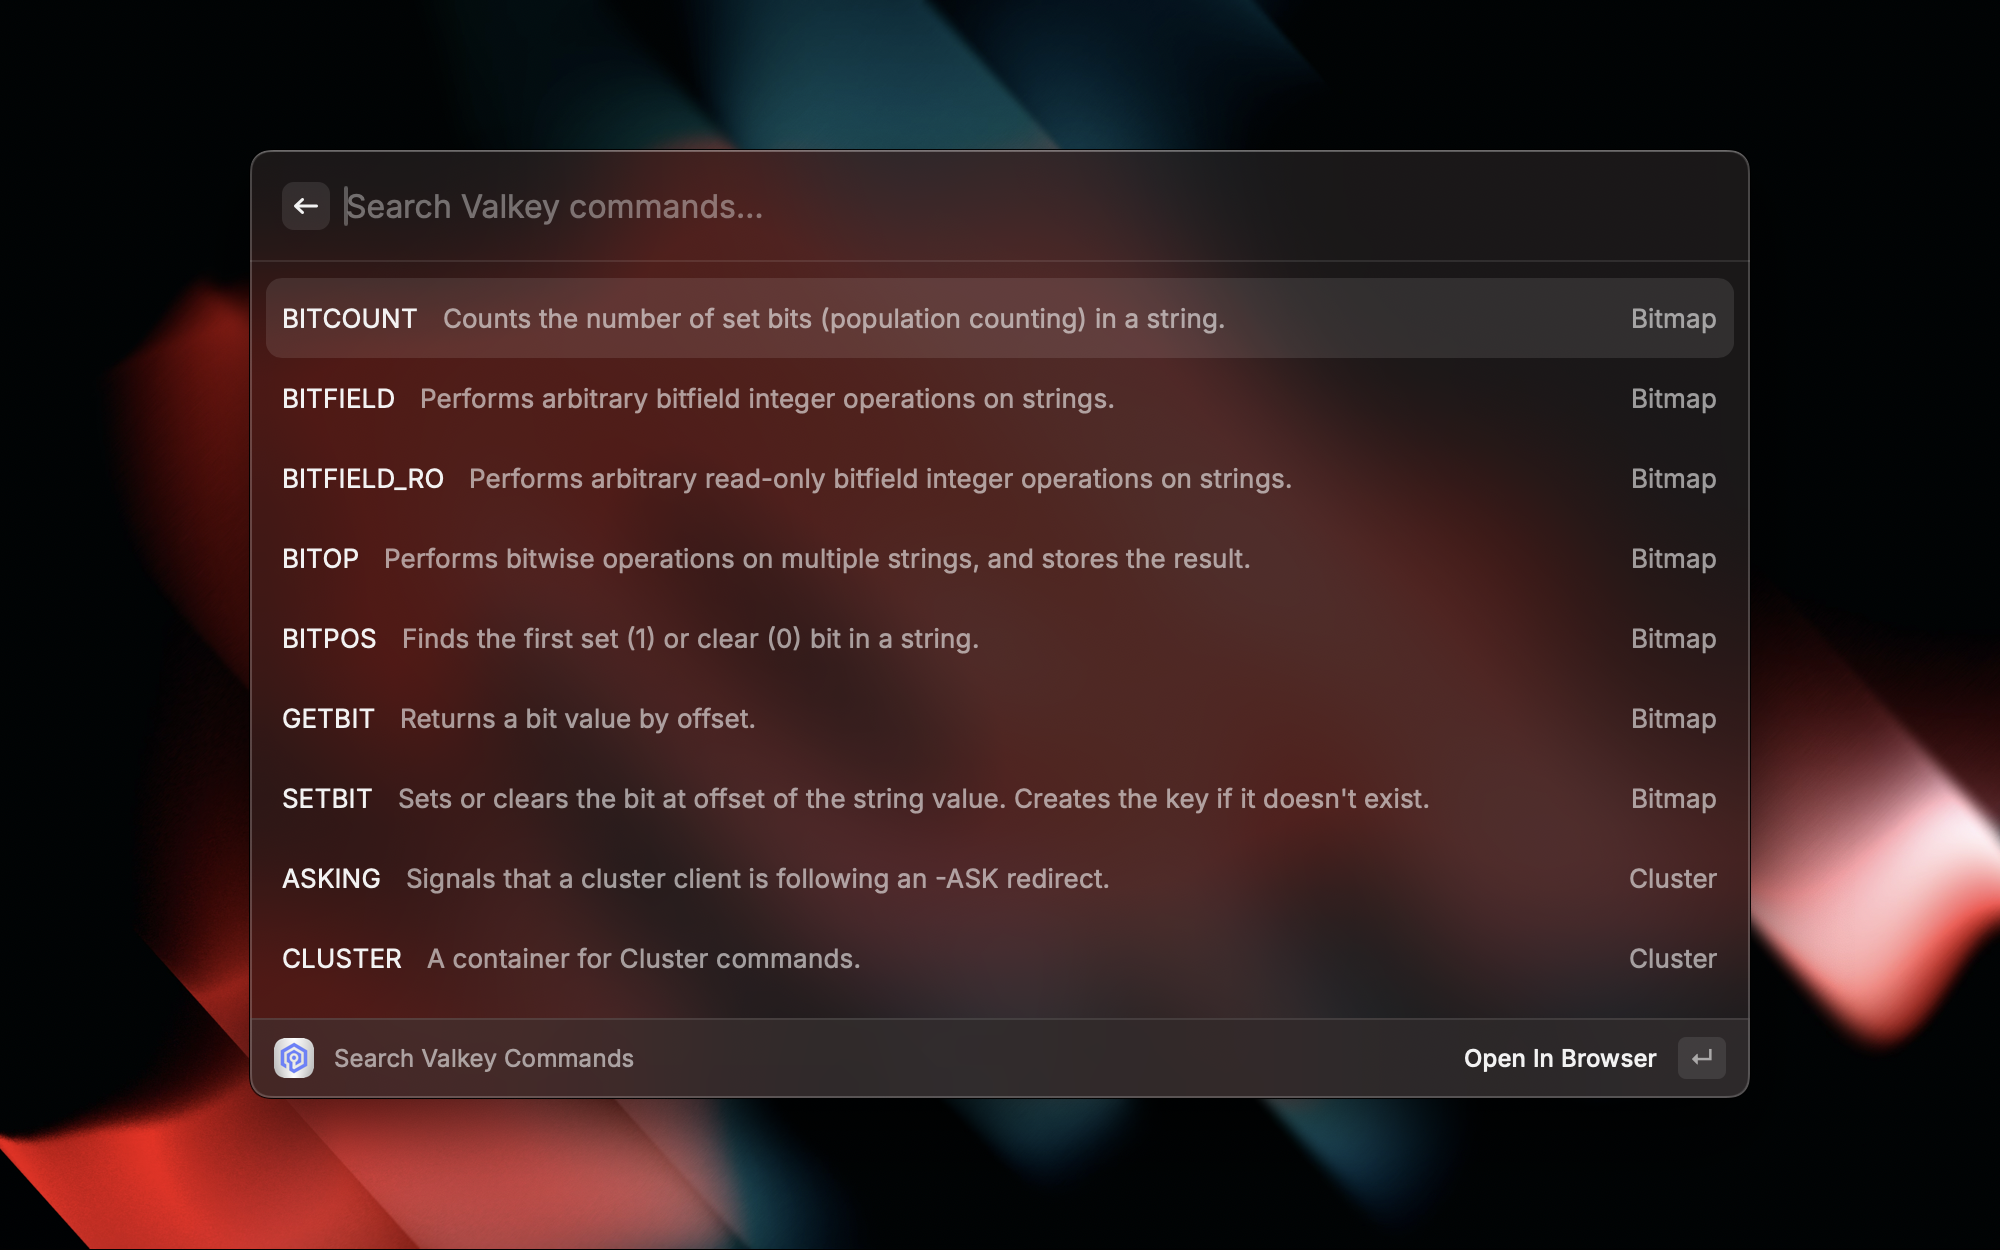
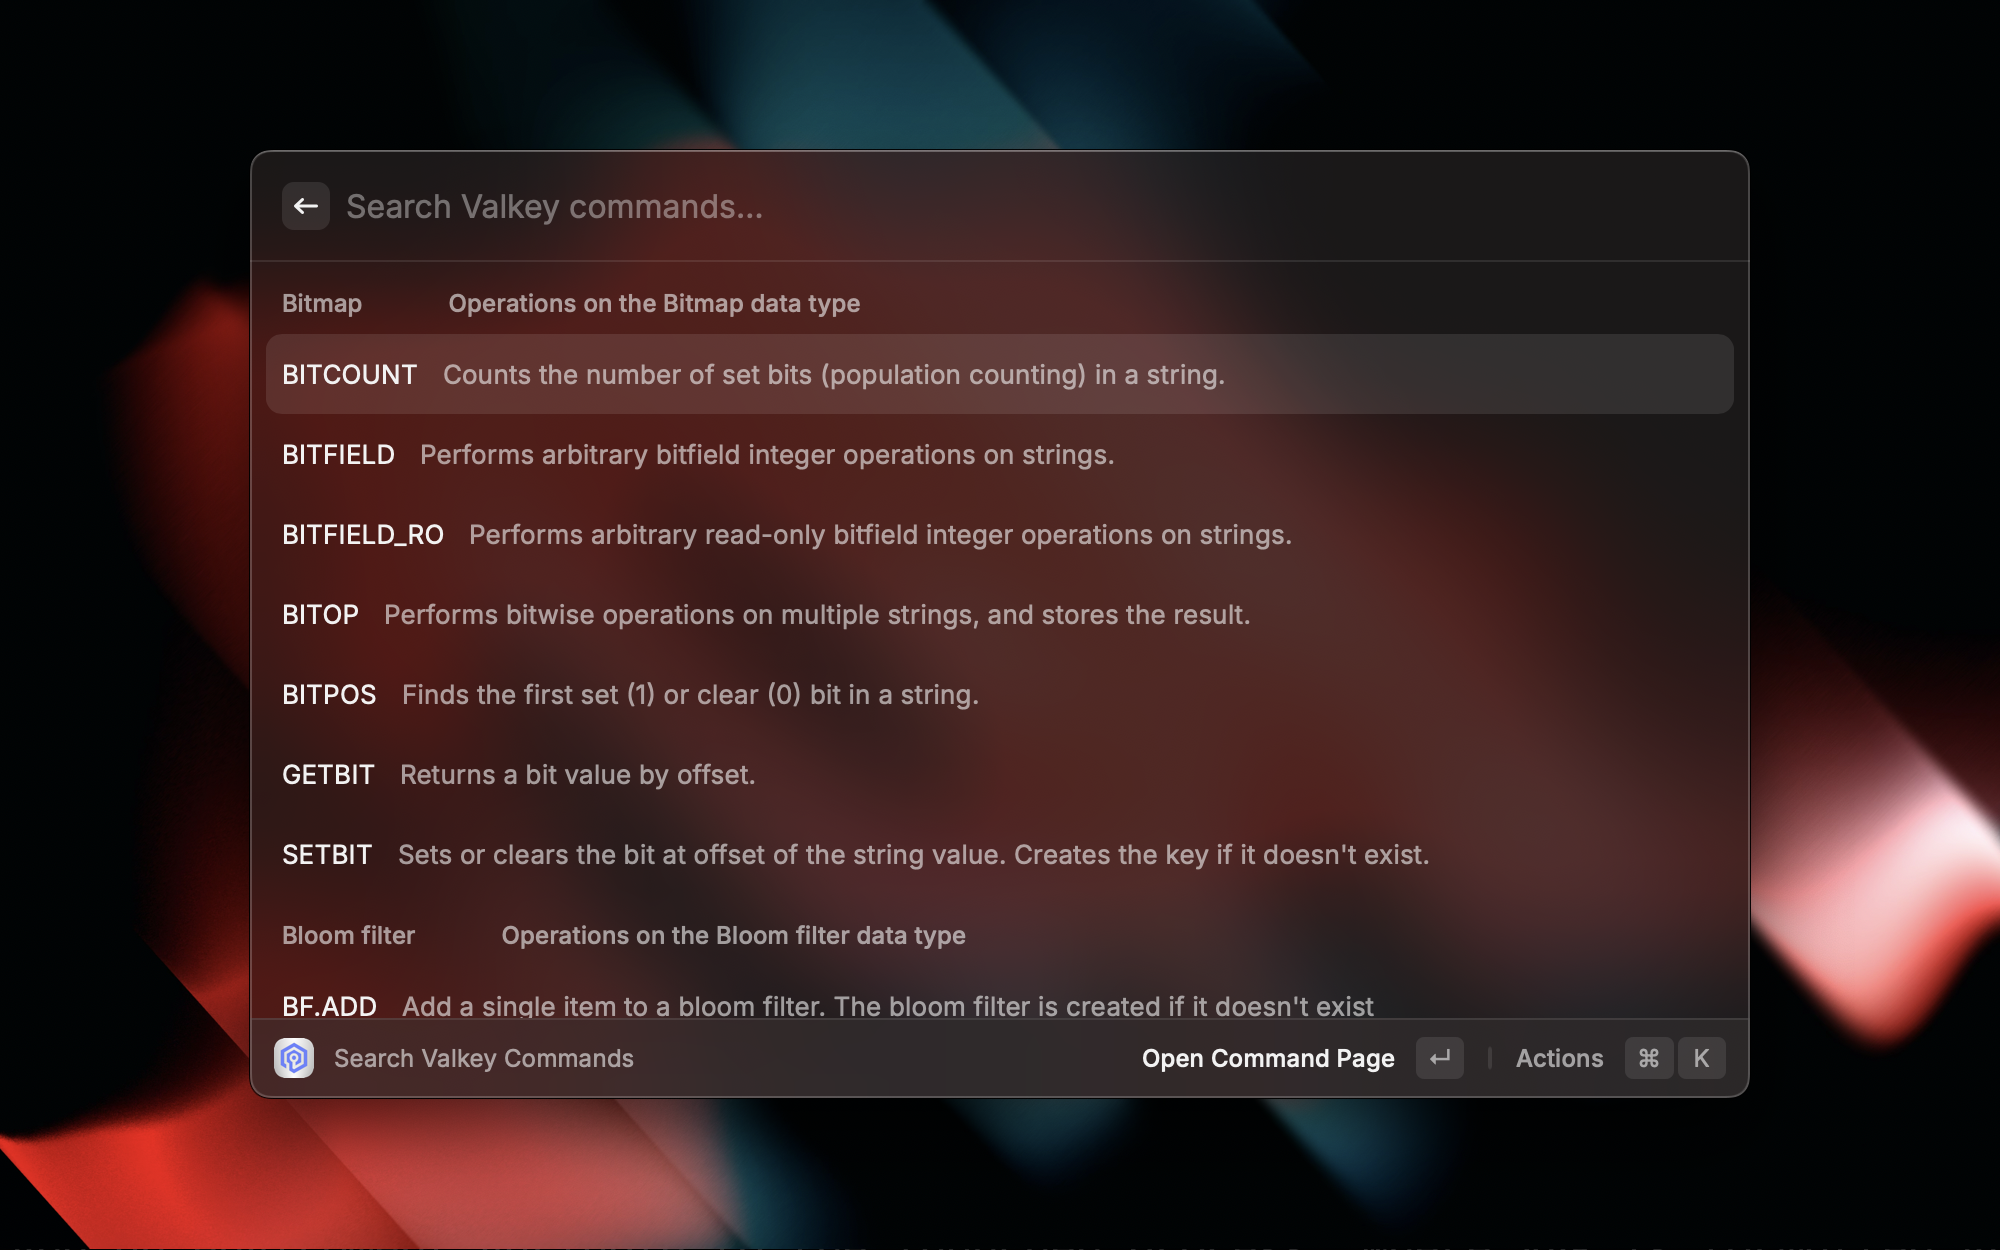
Update changelog and screenshots

diff --git a/CHANGELOG.md b/CHANGELOG.md
@@ -1,3 +1,9 @@
 # Valkey Commands Documentation Changelog
 
-## [Initial Version] - {PR_MERGE_DATE}
+## [Added command grouping] - {PR_MERGE_DATE}
+
+- Added explicit grouping to the commands
+- Updated dependencies
+- Migrated to useFetch
+
+## [Initial Version] - 2025-04-09
